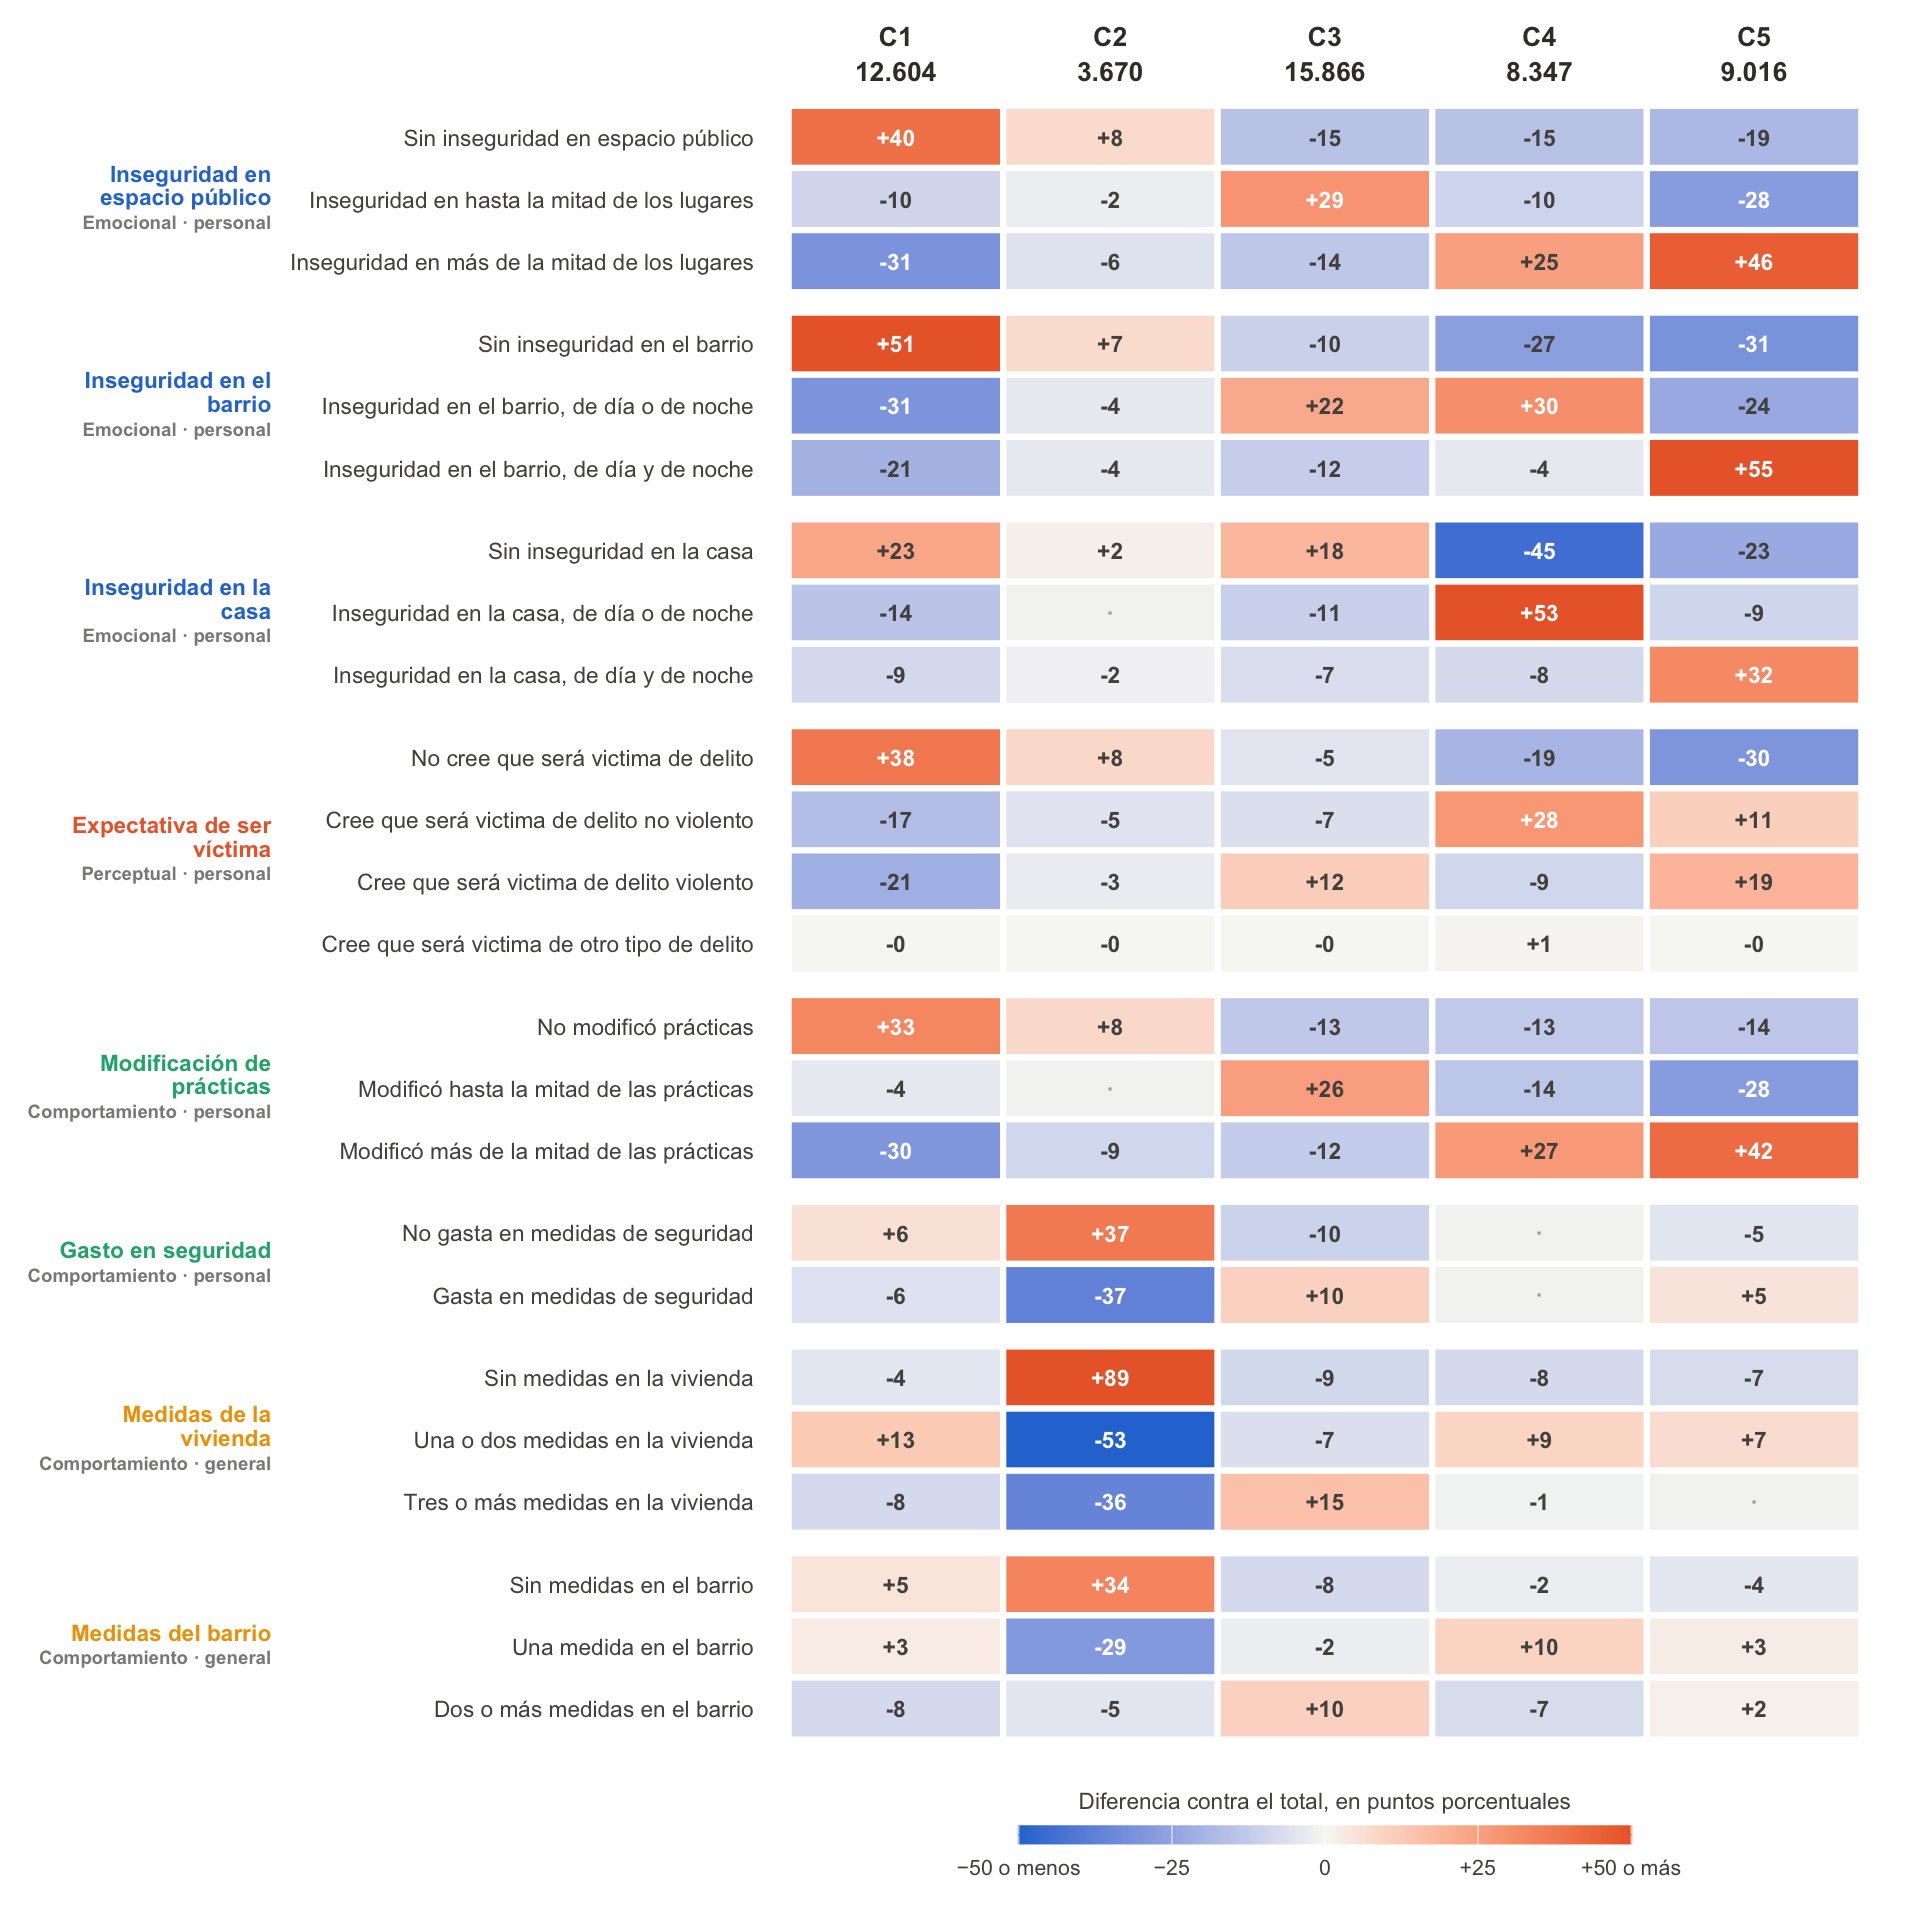
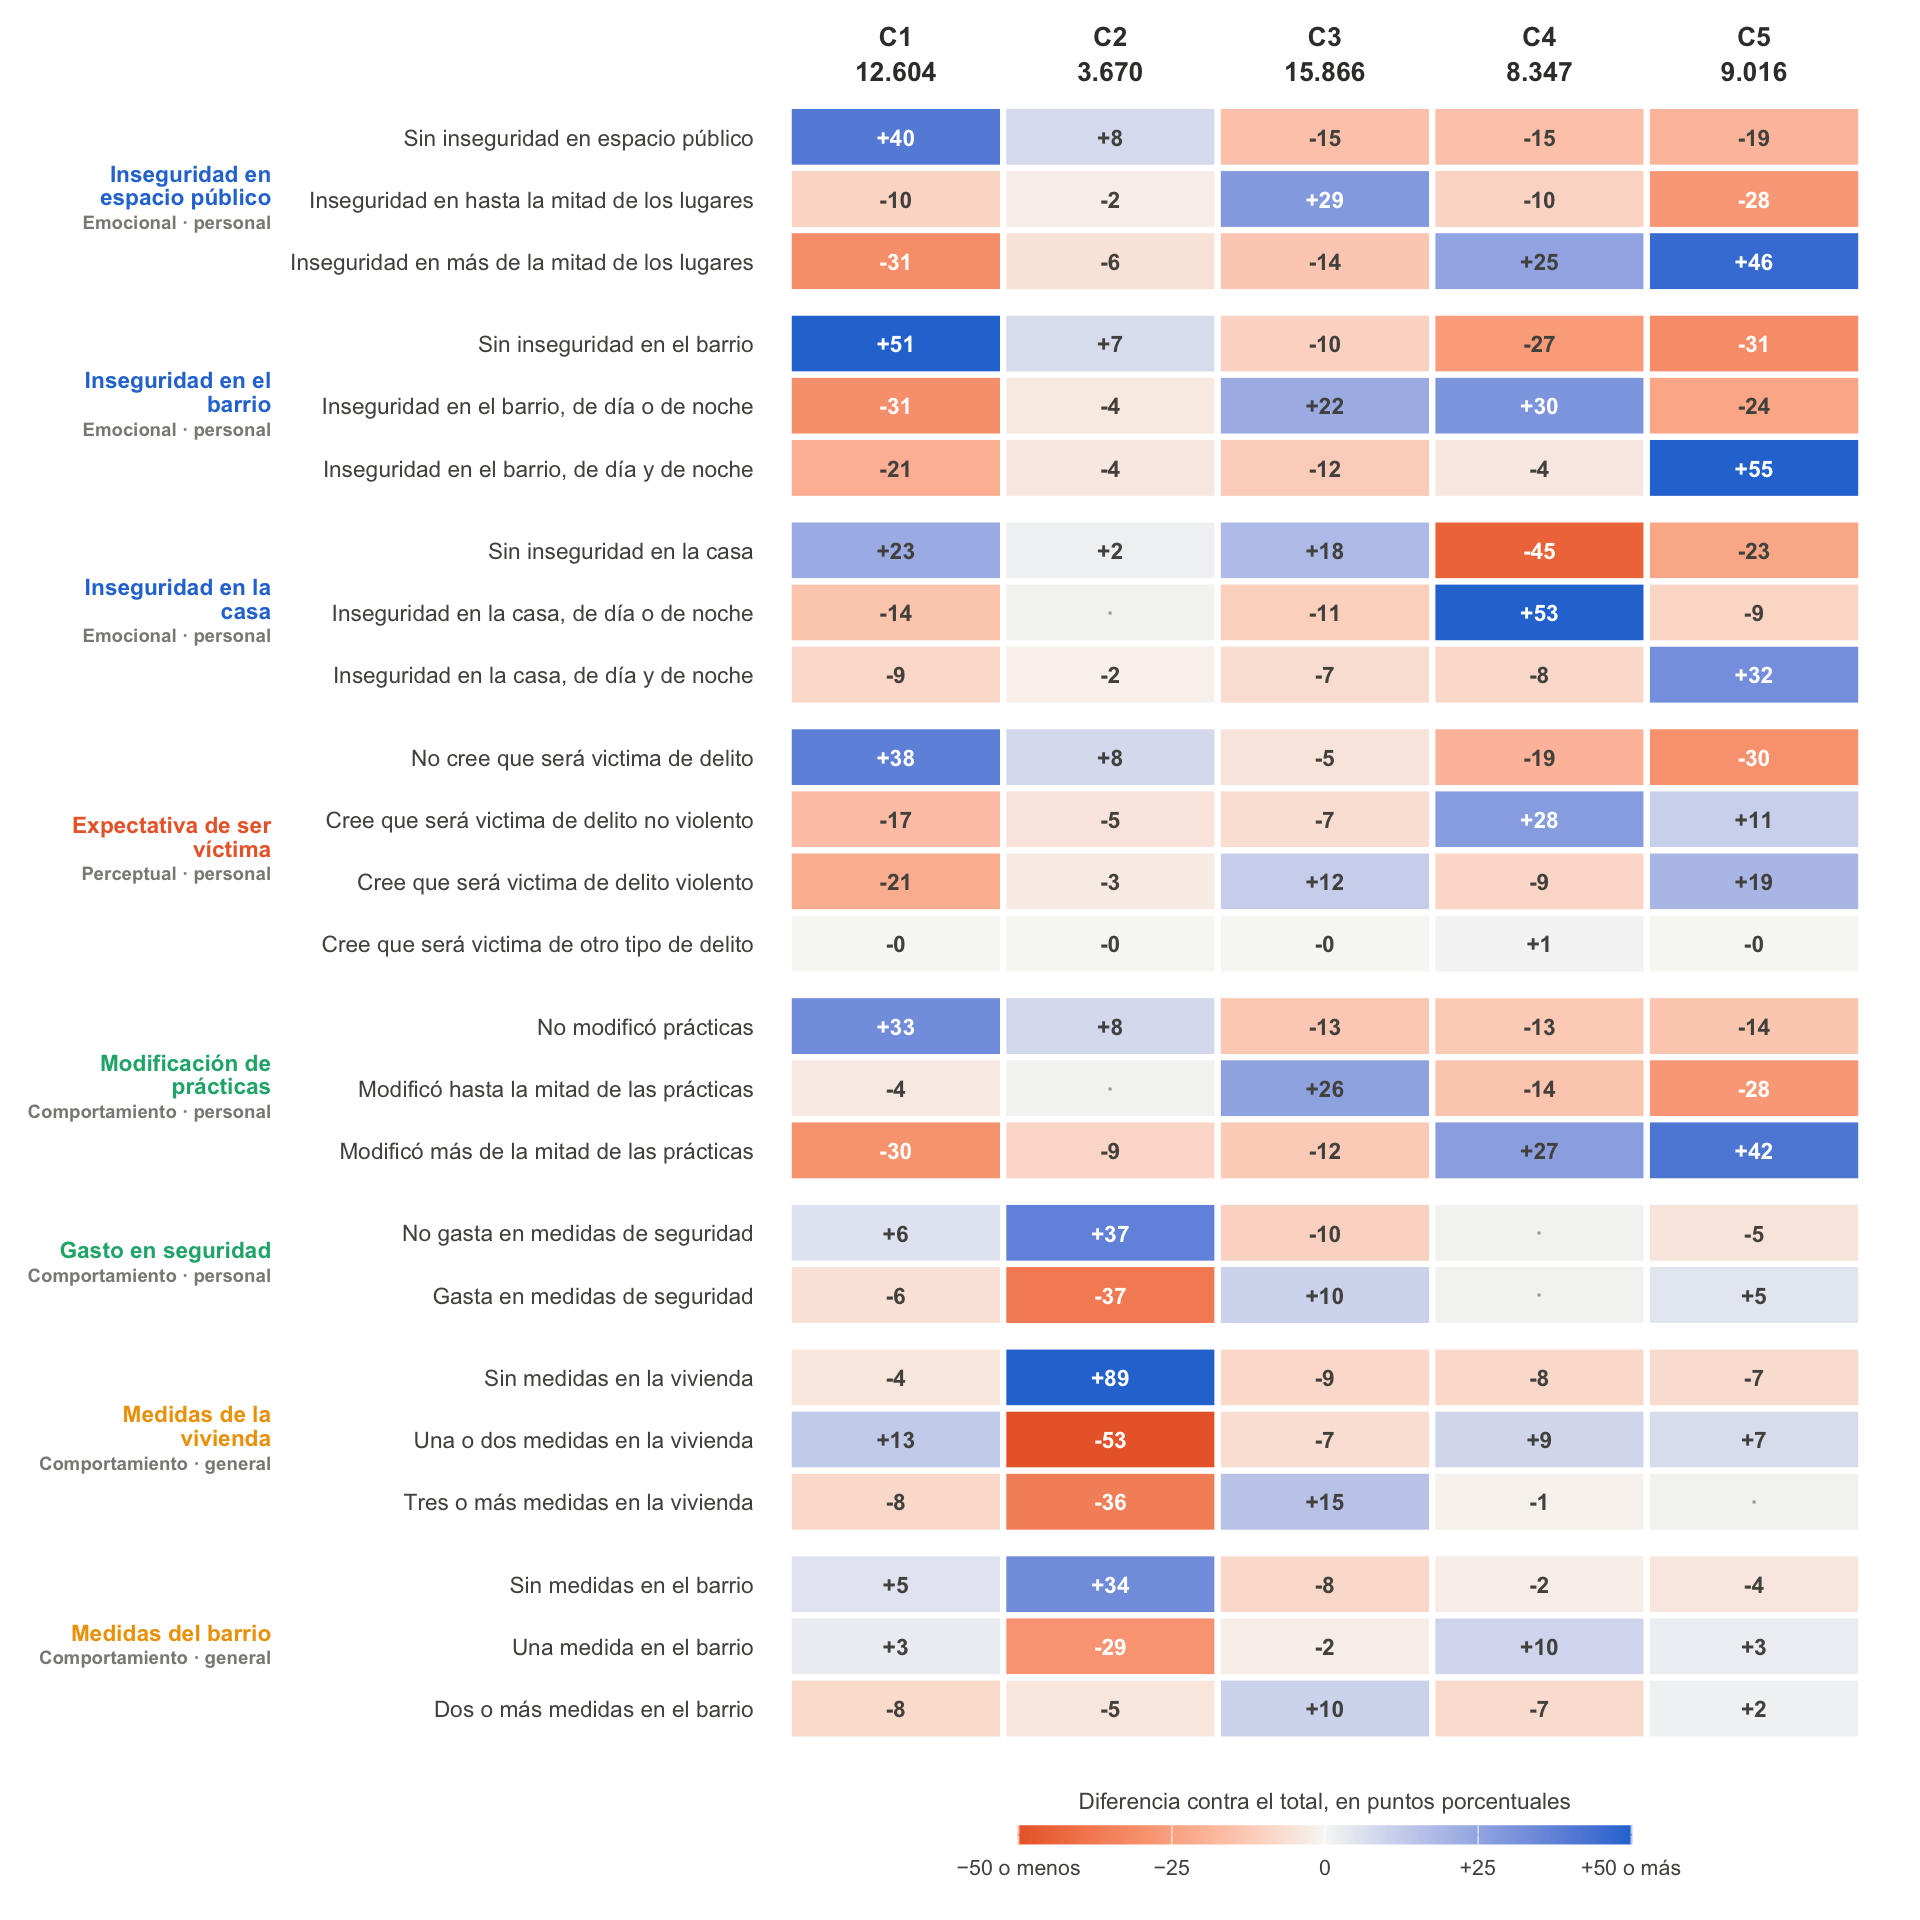
Invierte la escala de la matriz: azul positivo, naranja negativo
Es la convención de los corrplot, que es la que el equipo y su público tienen
internalizada. Va al revés de lo que sugeriría PAL_DIM, donde el azul nombra la
dimensión emocional, pero en la matriz el color codifica magnitud y no
identidad, y la leyenda está siempre a la vista.

Se corrige también la prosa de "Cómo leer la matriz", que nombra los dos
colores y habría quedado invertida.

Changed region(s): [[0.4062, 0.0312, 0.9688, 0.9062], [0.5312, 0.9375, 0.8438, 0.9688]]

diff --git a/docs/solucion-actual.html b/docs/solucion-actual.html
@@ -363,7 +363,7 @@ Tip
 <section id="cómo-leer-la-matriz" class="level2">
 <h2 class="anchored" data-anchor-id="cómo-leer-la-matriz">Cómo leer la matriz</h2>
 <p><strong>Una celda es una resta.</strong> La más marcada de la solución de 5 grupos es “Sin medidas en la vivienda” en C2: 100,0% de ese grupo responde eso, contra 8,2% en el total de las personas del modelo. La celda muestra la diferencia, <strong>92</strong> puntos porcentuales.</p>
-<p><strong>El color es esa misma diferencia.</strong> Naranja si la respuesta es más frecuente dentro del grupo que en el total, azul si es menos, y más intenso mientras más grande la diferencia. La escala se topa en 50 puntos: las celdas que se pasan van con el color del tope, pero el número que muestran es el verdadero.</p>
+<p><strong>El color es esa misma diferencia.</strong> Azul si la respuesta es más frecuente dentro del grupo que en el total, naranja si es menos, y más intenso mientras más grande la diferencia. La escala se topa en 50 puntos: las celdas que se pasan van con el color del tope, pero el número que muestran es el verdadero.</p>
 <p><strong>Hacia abajo se lee un grupo.</strong> Recorrer una columna da el perfil completo de ese grupo, que es el insumo para ponerle nombre.</p>
 <p><strong>De lado a lado se lee una respuesta.</strong> Recorrer una fila muestra qué grupos concentran esa respuesta y cuáles la evitan.</p>
 <p><strong>El cero también dice algo.</strong> Una celda pálida significa que en esa respuesta el grupo se comporta como el promedio, y eso es parte de su perfil. “Inseguridad en la casa, de día o de noche” separa con fuerza a otros grupos, pero C2 queda a 1,5 puntos del total. Un grupo puede definirse tanto por dónde se despega como por dónde no.</p>
